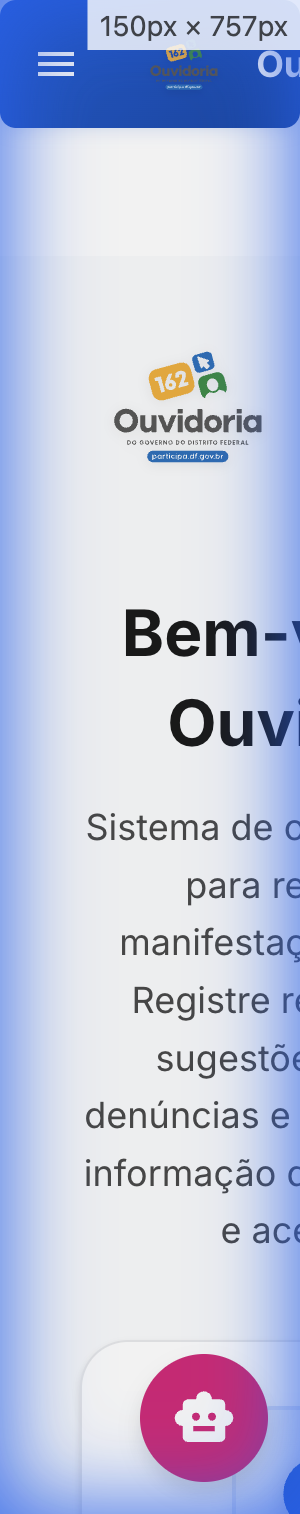
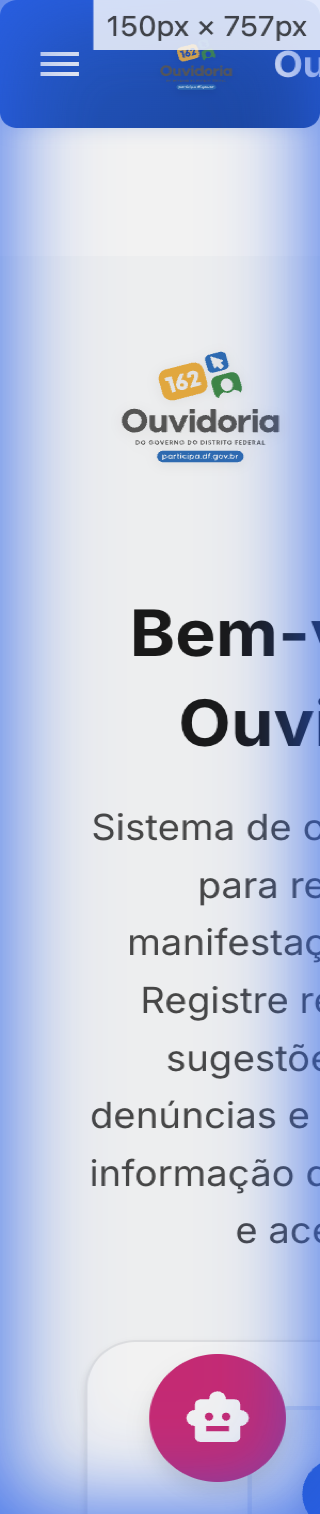
feat: Add PWA screenshots to the manifest configuration and update the mobile screenshot image.

diff --git a/vite.config.ts b/vite.config.ts
@@ -8,7 +8,7 @@ export default defineConfig({
     react(),
     VitePWA({
       registerType: 'autoUpdate',
-      includeAssets: ['favicon.ico', 'apple-touch-icon.png', 'mask-icon.svg', 'offline.html'],
+      includeAssets: ['favicon.ico', 'apple-touch-icon.png', 'mask-icon.svg', 'offline.html', 'screenshot-desktop.png', 'screenshot-mobile.png'],
       manifestFilename: 'manifest.json',
       manifest: {
         name: 'Participa - Sistema de Ouvidoria',
@@ -61,6 +61,22 @@ export default defineConfig({
             description: 'Visualizar meus registros',
             url: '/meus-registros',
             icons: [{ src: 'pwa-192x192.png', sizes: '192x192' }]
+          }
+        ],
+        screenshots: [
+          {
+            src: 'screenshot-desktop.png',
+            sizes: '1290x1476',
+            type: 'image/png',
+            form_factor: 'wide',
+            label: 'Interface Desktop do Participa'
+          },
+          {
+            src: 'screenshot-mobile.png',
+            sizes: '320x1514',
+            type: 'image/png',
+            form_factor: 'narrow',
+            label: 'Interface Mobile do Participa'
           }
         ]
       },
